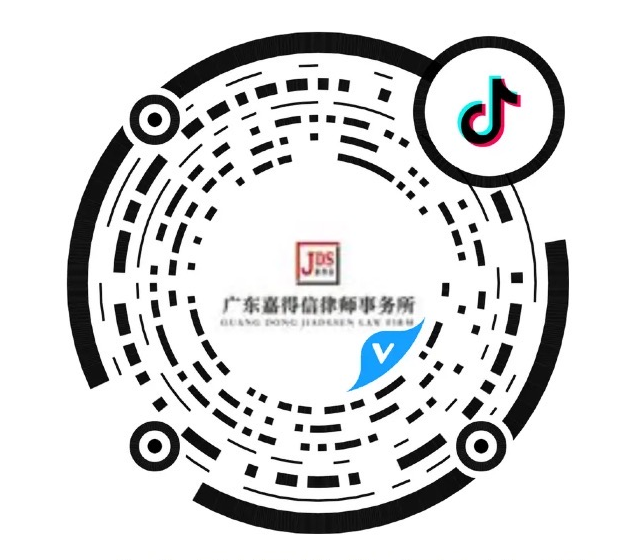
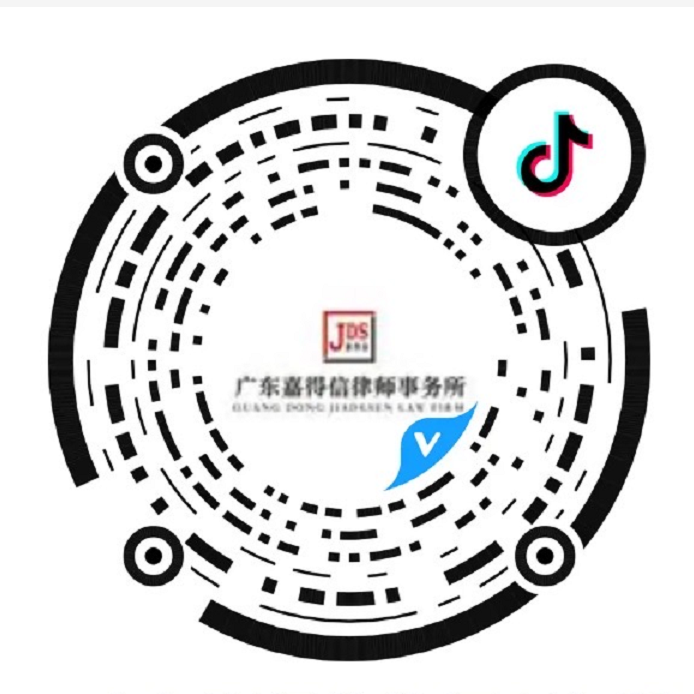
douyin.png

Changed region(s): [[0.0615, 0.0304, 0.9531, 0.9714], [0.7071, 0.4857, 0.7379, 0.5464], [0.5227, 0.9411, 0.5841, 0.9714]]

diff --git a/law/pc/src/components/common/commonBottomConsult/src/main.vue b/law/pc/src/components/common/commonBottomConsult/src/main.vue
@@ -18,9 +18,9 @@
       <div class="wechat">
         <img src="../../../../assets/images/common/wechat.jpg" />
       </div>
-      <div class="wechat">
-        <img src="../../../../assets/images/common/douyin.png" />
-      </div>
+    </div>
+    <div class="douyin">
+      <img src="../../../../assets/images/common/douyin.png" />
     </div>
     <div class="tel" v-show="tel">
       <i class="iconfont icon-dianhua"></i>
@@ -43,10 +43,6 @@ export default {
           img: require('../../../../assets/images/common/tel.png'),
           text: '服务热线'
         }
-        // {
-        //   img: require('../../../../assets/images/common/wechat.png'),
-        //   text: '微信公众号'
-        // }
       ],
       key: false,
       tel: false
@@ -157,6 +153,19 @@ export default {
     }
   }
   .wechat {
+    width: 82px !important;
+    height: 82px !important;
+    background: white;
+    padding-top: 0 !important;
+    img {
+      width: 80px !important;
+      height: 80px !important;
+    }
+  }
+  .douyin {
+    position: fixed;
+    bottom: 155px;
+    right: 130px;
     width: 82px !important;
     height: 82px !important;
     background: white;
